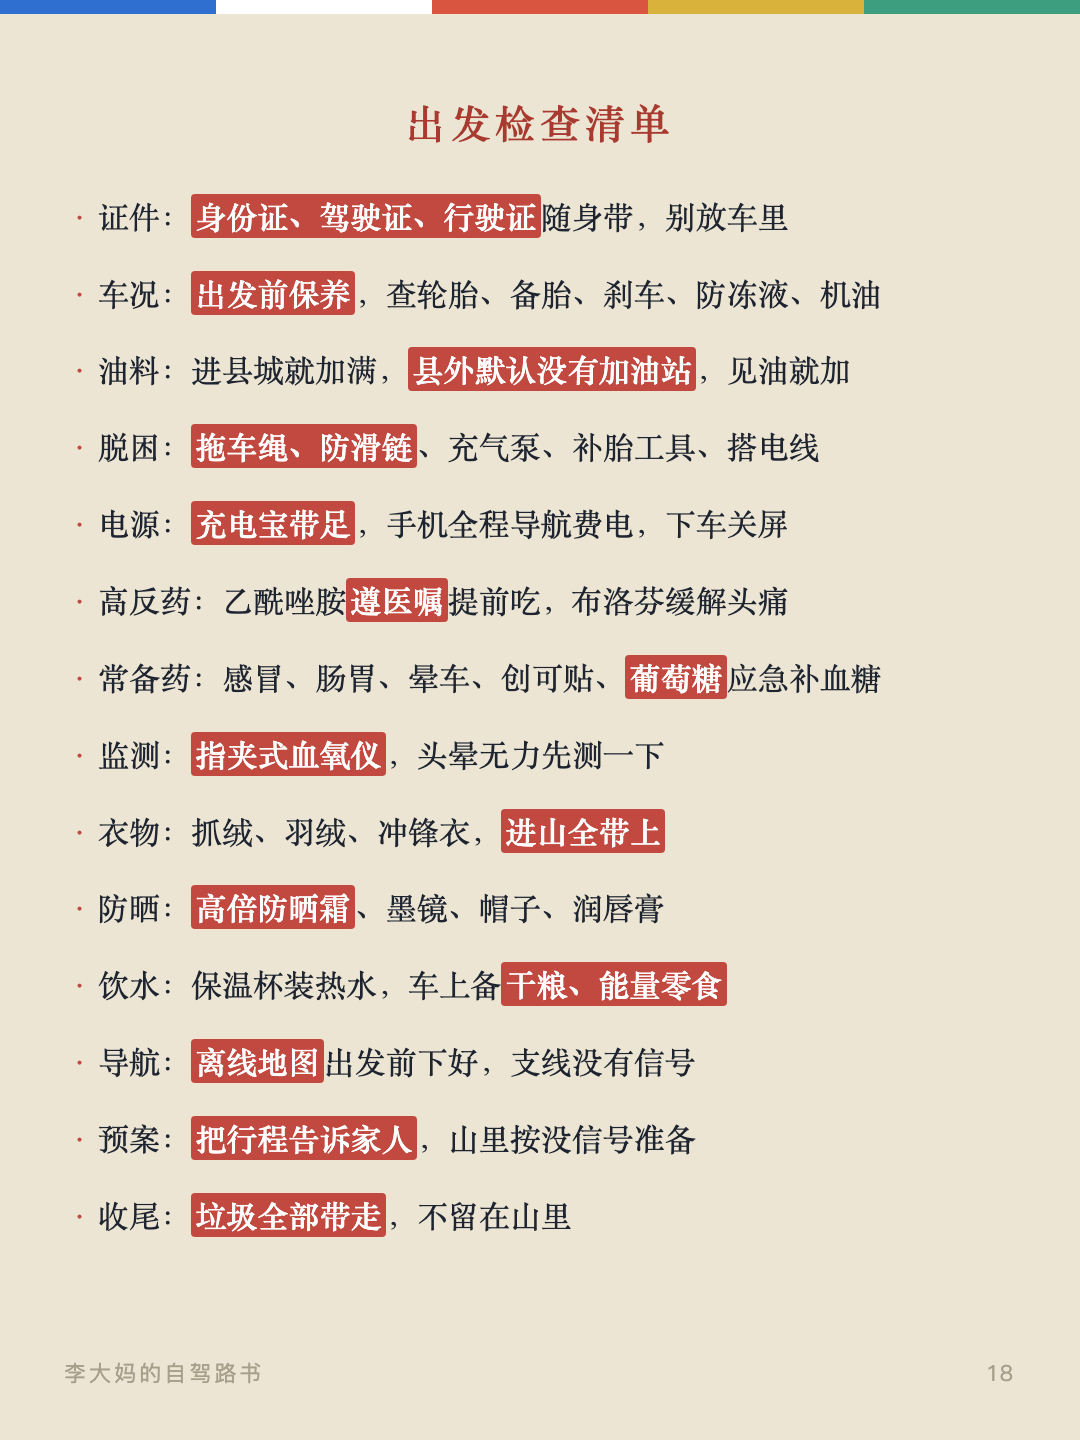
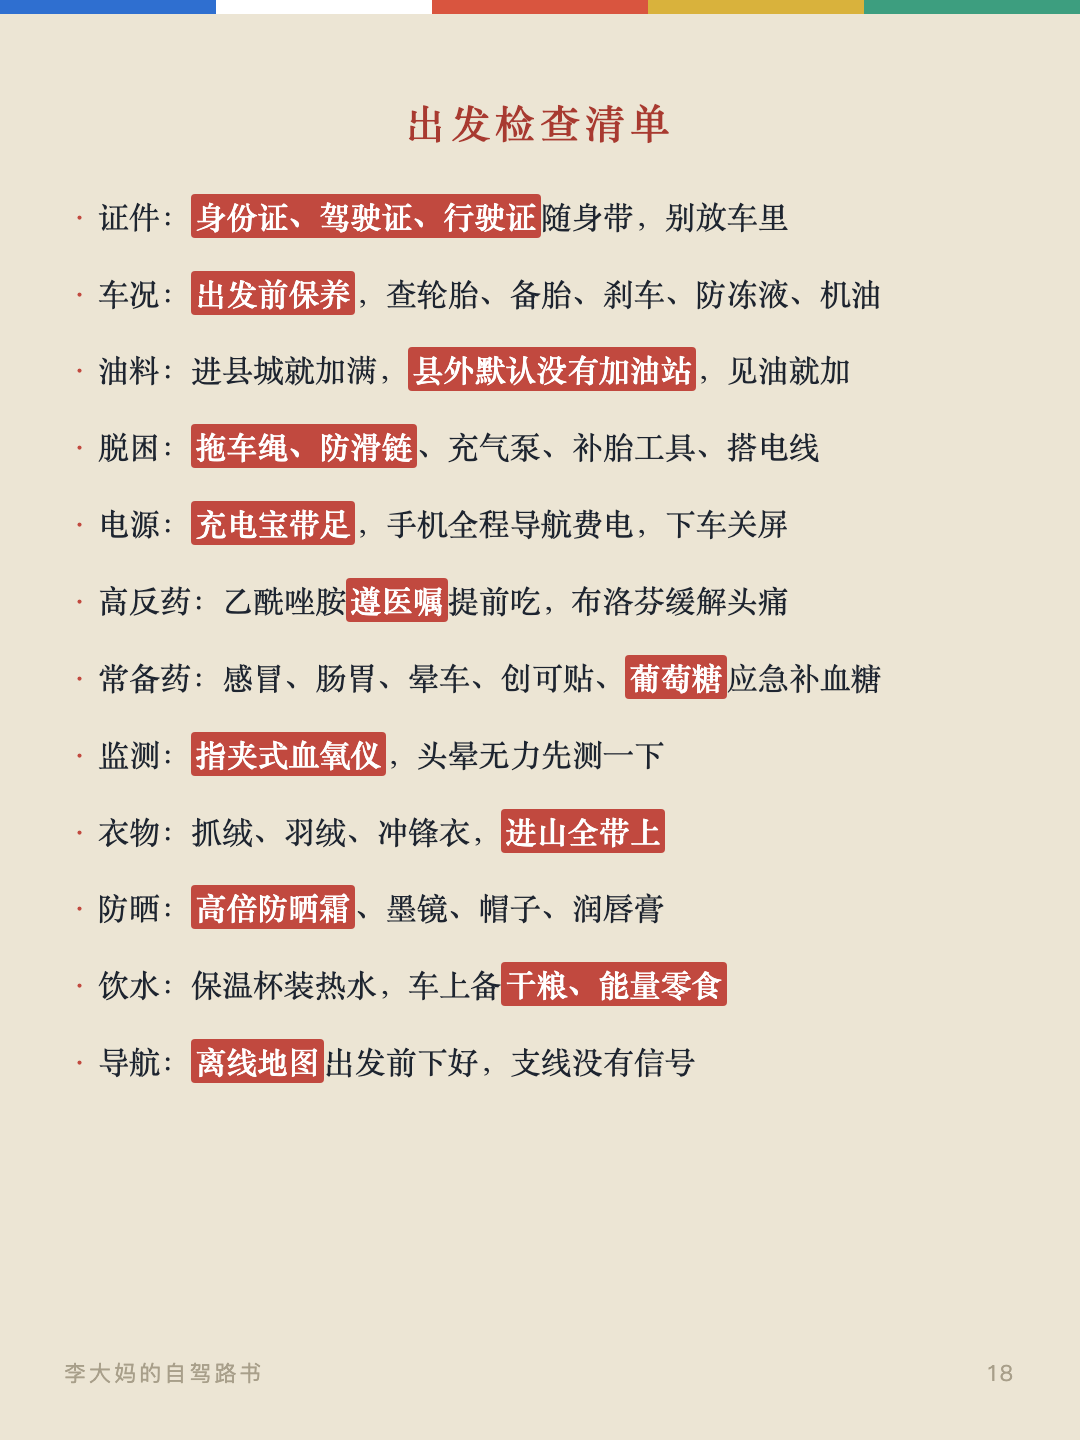
出发清单删预案/收尾两条，收为纯备物12条

Changed region(s): [[0.0917, 0.75, 0.3972, 0.875], [0.3972, 0.7812, 0.6417, 0.875]]

diff --git a/cards.html b/cards.html
@@ -157,7 +157,7 @@
 
 <div class="card" id="card17"><div class="flag" aria-hidden="true"><span style="background:var(--flag-blue)"></span><span style="background:var(--flag-white)"></span><span style="background:var(--flag-red)"></span><span style="background:var(--flag-yellow)"></span><span style="background:var(--flag-green)"></span></div><div class="card__inner"><h2>路上的官方渠道</h2><h3>路况与管制</h3><ul class="card__cwords"><li><b>四川交通广播</b>FM101.7，省域实时路况和封路，最常用</li> <li><b>四川交警高速公路一支队</b>成都周边和高速管制</li> <li><b>阿坝公安交警</b>阿坝州路况与管制</li> <li><b>甘孜州交管支队</b>甘孜州路况与管制</li> <li><b>康定公安正警事儿</b>折多山管制多临时处置，实时看它</li> <li>高速报警96122，交通监督热线12328</li></ul><h3>天气、充电与预约</h3><ul class="card__cwords"><li><b>四川气象</b>暴雨、地灾气象风险预警</li> <li><b>中央气象台</b>逐县预报准，垭口前看逐小时</li> <li><b>国家预警发布</b>各类预警统一推送</li> <li><b>掌上通甘孜</b>甘孜州充电桩查询，电车补能靠它</li> <li><b>一部手机游阿坝</b>阿坝景区门票预约</li> <li>垭口天气预报，提前一天关注<strong>中央气象台的逐小时预报</strong>定行车窗口；临时管制消息，则以当天的<strong>FM101.7广播和高德路况</strong>为准</li></ul><div class="card__foot"><span>李大妈的自驾路书</span><span>17</span></div></div></div>
 
-<div class="card" id="card18"><div class="flag" aria-hidden="true"><span style="background:var(--flag-blue)"></span><span style="background:var(--flag-white)"></span><span style="background:var(--flag-red)"></span><span style="background:var(--flag-yellow)"></span><span style="background:var(--flag-green)"></span></div><div class="card__inner"><h2>出发检查清单</h2><ul class="card__list"><li>证件：<strong>身份证、驾驶证、行驶证</strong>随身带，别放车里</li> <li>车况：<strong>出发前保养</strong>，查轮胎、备胎、刹车、防冻液、机油</li> <li>油料：进县城就加满，<strong>县外默认没有加油站</strong>，见油就加</li> <li>脱困：<strong>拖车绳、防滑链</strong>、充气泵、补胎工具、搭电线</li> <li>电源：<strong>充电宝带足</strong>，手机全程导航费电，下车关屏</li> <li>高反药：乙酰唑胺<strong>遵医嘱</strong>提前吃，布洛芬缓解头痛</li> <li>常备药：感冒、肠胃、晕车、创可贴、<strong>葡萄糖</strong>应急补血糖</li> <li>监测：<strong>指夹式血氧仪</strong>，头晕无力先测一下</li> <li>衣物：抓绒、羽绒、冲锋衣，<strong>进山全带上</strong></li> <li>防晒：<strong>高倍防晒霜</strong>、墨镜、帽子、润唇膏</li> <li>饮水：保温杯装热水，车上备<strong>干粮、能量零食</strong></li> <li>导航：<strong>离线地图</strong>出发前下好，支线没有信号</li> <li>预案：<strong>把行程告诉家人</strong>，山里按没信号准备</li> <li>收尾：<strong>垃圾全部带走</strong>，不留在山里</li></ul><div class="card__foot"><span>李大妈的自驾路书</span><span>18</span></div></div></div>
+<div class="card" id="card18"><div class="flag" aria-hidden="true"><span style="background:var(--flag-blue)"></span><span style="background:var(--flag-white)"></span><span style="background:var(--flag-red)"></span><span style="background:var(--flag-yellow)"></span><span style="background:var(--flag-green)"></span></div><div class="card__inner"><h2>出发检查清单</h2><ul class="card__list"><li>证件：<strong>身份证、驾驶证、行驶证</strong>随身带，别放车里</li> <li>车况：<strong>出发前保养</strong>，查轮胎、备胎、刹车、防冻液、机油</li> <li>油料：进县城就加满，<strong>县外默认没有加油站</strong>，见油就加</li> <li>脱困：<strong>拖车绳、防滑链</strong>、充气泵、补胎工具、搭电线</li> <li>电源：<strong>充电宝带足</strong>，手机全程导航费电，下车关屏</li> <li>高反药：乙酰唑胺<strong>遵医嘱</strong>提前吃，布洛芬缓解头痛</li> <li>常备药：感冒、肠胃、晕车、创可贴、<strong>葡萄糖</strong>应急补血糖</li> <li>监测：<strong>指夹式血氧仪</strong>，头晕无力先测一下</li> <li>衣物：抓绒、羽绒、冲锋衣，<strong>进山全带上</strong></li> <li>防晒：<strong>高倍防晒霜</strong>、墨镜、帽子、润唇膏</li> <li>饮水：保温杯装热水，车上备<strong>干粮、能量零食</strong></li> <li>导航：<strong>离线地图</strong>出发前下好，支线没有信号</li> </ul><div class="card__foot"><span>李大妈的自驾路书</span><span>18</span></div></div></div>
 
 
 <script>

diff --git a/index.html b/index.html
@@ -364,8 +364,6 @@
         <li>防晒：<strong>高倍防晒霜</strong>、墨镜、帽子、润唇膏</li>
         <li>饮水：保温杯装热水，车上备<strong>干粮、能量零食</strong></li>
         <li>导航：<strong>离线地图</strong>出发前下好，支线没有信号</li>
-        <li>预案：<strong>把行程告诉家人</strong>，山里按没信号准备</li>
-        <li>收尾：<strong>垃圾全部带走</strong>，不留在山里</li>
       </ul>
     </section>
 

diff --git a/gen_cards.py b/gen_cards.py
@@ -109,7 +109,7 @@ A_PAGES = [
   # 附录第3页（16）——出发检查清单（通用版）
   [
     ('h2', '出发检查清单'),
-    ('list', '<li>证件：<strong>身份证、驾驶证、行驶证</strong>随身带，别放车里</li> <li>车况：<strong>出发前保养</strong>，查轮胎、备胎、刹车、防冻液、机油</li> <li>油料：进县城就加满，<strong>县外默认没有加油站</strong>，见油就加</li> <li>脱困：<strong>拖车绳、防滑链</strong>、充气泵、补胎工具、搭电线</li> <li>电源：<strong>充电宝带足</strong>，手机全程导航费电，下车关屏</li> <li>高反药：乙酰唑胺<strong>遵医嘱</strong>提前吃，布洛芬缓解头痛</li> <li>常备药：感冒、肠胃、晕车、创可贴、<strong>葡萄糖</strong>应急补血糖</li> <li>监测：<strong>指夹式血氧仪</strong>，头晕无力先测一下</li> <li>衣物：抓绒、羽绒、冲锋衣，<strong>进山全带上</strong></li> <li>防晒：<strong>高倍防晒霜</strong>、墨镜、帽子、润唇膏</li> <li>饮水：保温杯装热水，车上备<strong>干粮、能量零食</strong></li> <li>导航：<strong>离线地图</strong>出发前下好，支线没有信号</li> <li>预案：<strong>把行程告诉家人</strong>，山里按没信号准备</li> <li>收尾：<strong>垃圾全部带走</strong>，不留在山里</li>'),
+    ('list', '<li>证件：<strong>身份证、驾驶证、行驶证</strong>随身带，别放车里</li> <li>车况：<strong>出发前保养</strong>，查轮胎、备胎、刹车、防冻液、机油</li> <li>油料：进县城就加满，<strong>县外默认没有加油站</strong>，见油就加</li> <li>脱困：<strong>拖车绳、防滑链</strong>、充气泵、补胎工具、搭电线</li> <li>电源：<strong>充电宝带足</strong>，手机全程导航费电，下车关屏</li> <li>高反药：乙酰唑胺<strong>遵医嘱</strong>提前吃，布洛芬缓解头痛</li> <li>常备药：感冒、肠胃、晕车、创可贴、<strong>葡萄糖</strong>应急补血糖</li> <li>监测：<strong>指夹式血氧仪</strong>，头晕无力先测一下</li> <li>衣物：抓绒、羽绒、冲锋衣，<strong>进山全带上</strong></li> <li>防晒：<strong>高倍防晒霜</strong>、墨镜、帽子、润唇膏</li> <li>饮水：保温杯装热水，车上备<strong>干粮、能量零食</strong></li> <li>导航：<strong>离线地图</strong>出发前下好，支线没有信号</li> '),
   ],
 ]
 
